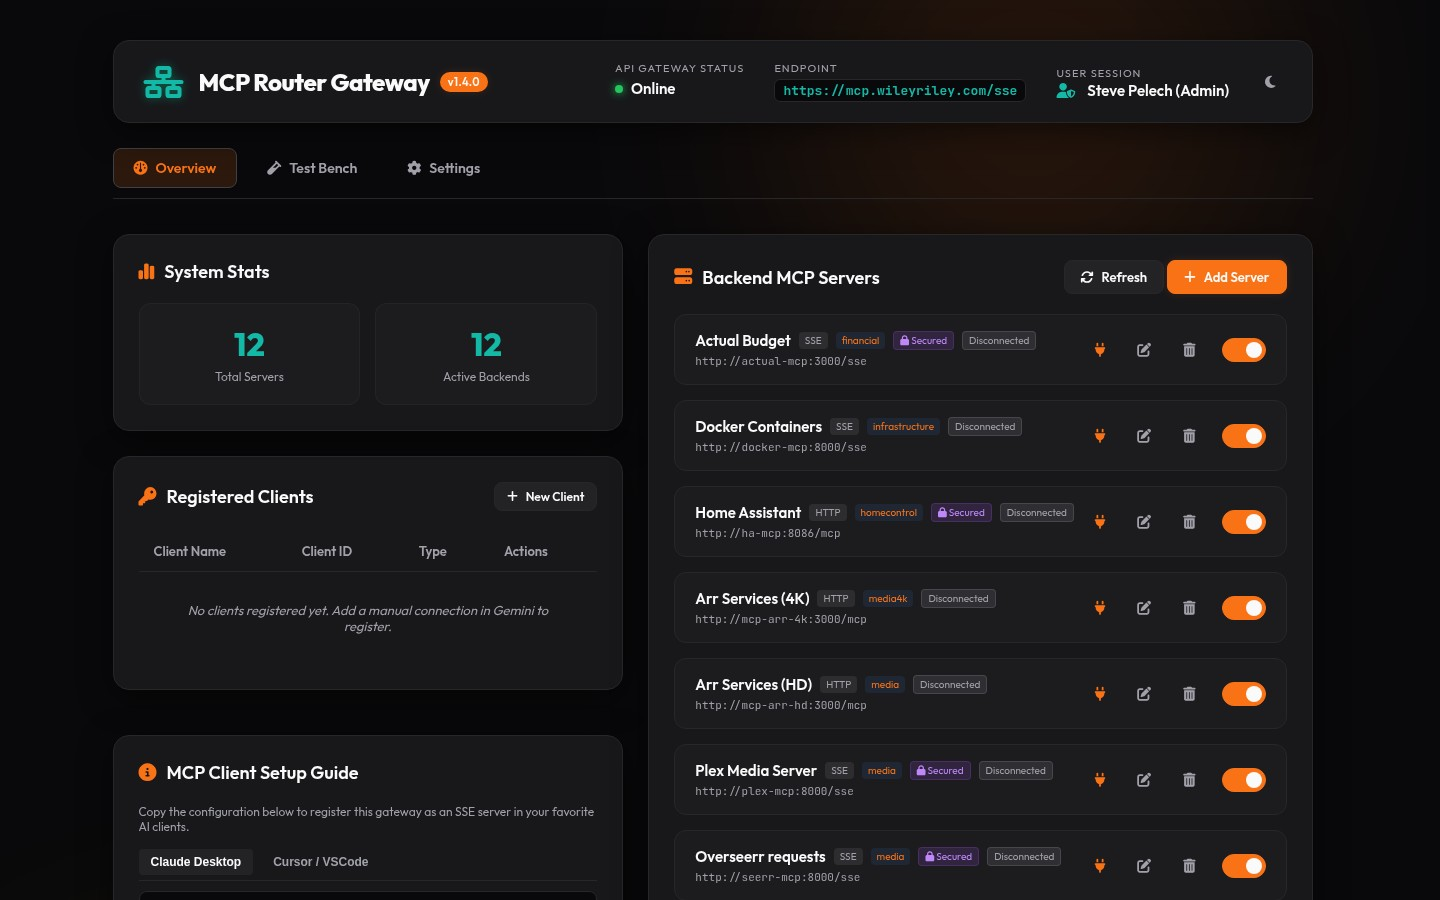
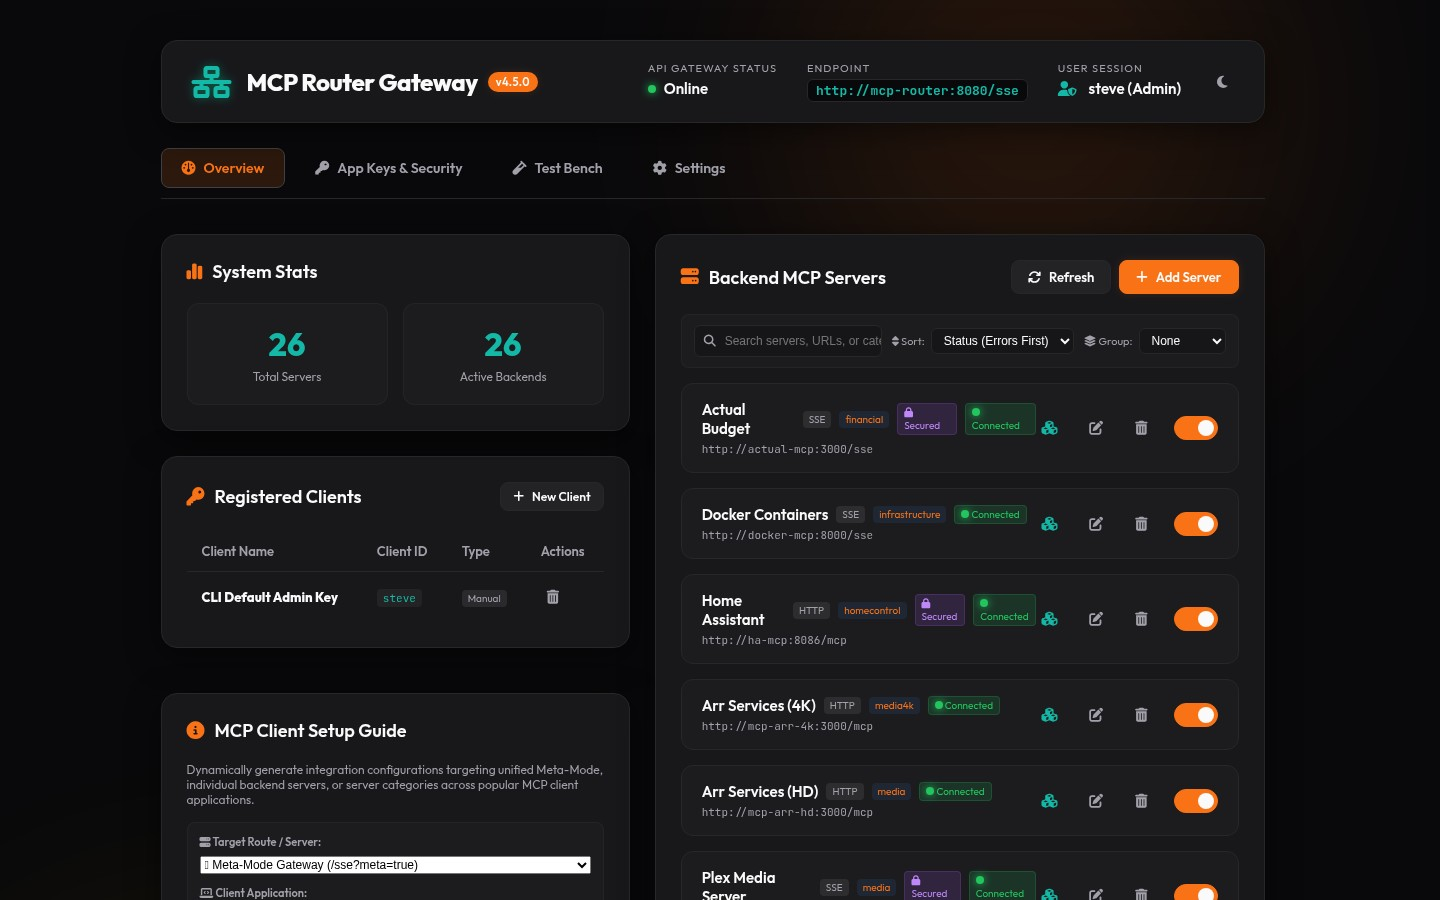
fix(ui): remove RegisteredClientsCard from Overview and stabilize tab layout navigation width

diff --git a/scripts/take_screenshots.js b/scripts/take_screenshots.js
@@ -1,6 +1,4 @@
 const puppeteer = require('puppeteer');
-const fs = require('fs');
-const path = require('path');
 
 (async () => {
     console.log("Starting Puppeteer browser...");
@@ -14,84 +12,61 @@ const path = require('path');
     
     // Set extra headers to fake the SSO session user
     await page.setExtraHTTPHeaders({
-        'Remote-User': process.env.SSO_USER || 'admin',
-        'Remote-Groups': process.env.SSO_GROUPS || 'admin',
-        'Remote-Name': process.env.SSO_NAME || 'Administrator'
+        'Remote-User': process.env.SSO_USER || 'steve',
+        'Remote-Groups': process.env.SSO_GROUPS || 'full_admin,house_member',
+        'Remote-Name': process.env.SSO_NAME || 'Steve Pelech'
     });
     
     const url = process.env.DASHBOARD_URL || 'http://localhost:8080/';
     console.log(`Navigating to ${url}...`);
     
-    // Navigate and wait for server list to render
+    // Navigate and wait for dashboard container to render
     await page.goto(url, { waitUntil: 'networkidle2' });
-    console.log("Page loaded. Waiting for servers to render...");
-    await page.waitForSelector('#servers-list .server-item', { timeout: 10000 });
+    console.log("Page loaded. Waiting for dashboard container...");
+    await page.waitForSelector('.dashboard-container', { timeout: 15000 });
     
-    // Wait a brief moment to ensure connectionStatus states render green
-    await page.evaluate(() => new Promise(resolve => setTimeout(resolve, 1500)));
+    // Wait a brief moment for dynamic data to load
+    await page.evaluate(() => new Promise(resolve => setTimeout(resolve, 2000)));
     
-    // Take dashboard screenshot
-    console.log("Taking dashboard screenshot...");
+    // Take dashboard overview screenshot
+    console.log("Taking dashboard overview screenshot...");
     await page.screenshot({ path: '/home/pptruser/app/screenshots/dashboard.jpg', quality: 90, type: 'jpeg' });
     
-    // Open Add Server modal
-    console.log("Opening Add Server modal...");
-    await page.evaluate(() => openAddModal());
-    await page.waitForSelector('#server-modal', { visible: true });
-    
-    // Fill in mock details for screenshot
-    await page.evaluate(() => {
-        document.getElementById('server-name').value = 'Home Assistant';
-        document.getElementById('server-url').value = 'http://ha-mcp:8086/mcp';
-        document.getElementById('server-type').value = 'http';
-        document.getElementById('server-category').value = 'homecontrol';
-        document.getElementById('server-key').value = '••••••••••••••••••••••••';
-    });
-    
-    // Wait a brief moment for layout
-    await page.evaluate(() => new Promise(resolve => setTimeout(resolve, 500)));
-    console.log("Taking Add Server modal screenshot...");
-    await page.screenshot({ path: '/home/pptruser/app/screenshots/add_server_modal.jpg', quality: 90, type: 'jpeg' });
-    
-    // Close modal
-    await page.evaluate(() => closeModal());
-    await page.evaluate(() => new Promise(resolve => setTimeout(resolve, 300)));
-    
-    // Switch to Settings tab
-    console.log("Switching to Settings tab...");
-    await page.click('button[data-view="view-settings"]');
-    await page.waitForSelector('#view-settings', { visible: true });
-    await page.evaluate(() => new Promise(resolve => setTimeout(resolve, 500)));
-    console.log("Taking Settings view screenshot...");
-    await page.screenshot({ path: '/home/pptruser/app/screenshots/settings_view.jpg', quality: 90, type: 'jpeg' });
-    
-    // Switch to Test Bench tab
-    console.log("Switching to Test Bench tab...");
-    await page.click('button[data-view="view-testbench"]');
-    await page.waitForSelector('#view-testbench', { visible: true });
-    
-    // Let's populate the dynamic form fields with docker restart tool
-    await page.evaluate(async () => {
-        // Select docker server
-        const serverSelect = document.getElementById('tester-server');
-        serverSelect.value = 'docker';
-        serverSelect.dispatchEvent(new Event('change'));
+    // Switch to Security tab (2nd button in nav.tabs-nav)
+    console.log("Switching to App Keys & Security tab...");
+    const tabButtons = await page.$$('nav.tabs-nav button');
+    if (tabButtons.length >= 2) {
+        await tabButtons[1].click();
+        await page.evaluate(() => new Promise(resolve => setTimeout(resolve, 1500)));
+        console.log("Taking Security View screenshot...");
+        await page.screenshot({ path: '/home/pptruser/app/screenshots/security_view.jpg', quality: 90, type: 'jpeg' });
         
-        // Wait for tools to load
-        await new Promise(resolve => setTimeout(resolve, 1500));
-        
-        // Select docker__restart_container tool
-        const toolSelect = document.getElementById('tester-tool');
-        const dockerOption = Array.from(toolSelect.options).find(o => o.value.includes('restart_container') || o.value.includes('restart'));
-        if (dockerOption) {
-            toolSelect.value = dockerOption.value;
-            toolSelect.dispatchEvent(new Event('change'));
+        // Open Create App Key modal
+        console.log("Opening Create App Key modal...");
+        const createKeyBtn = await page.$('.dcr-card button');
+        if (createKeyBtn) {
+            await createKeyBtn.click();
+            await page.waitForSelector('#add-appkey-modal', { visible: true });
+            await page.evaluate(() => new Promise(resolve => setTimeout(resolve, 500)));
+            console.log("Taking App Key Modal screenshot...");
+            await page.screenshot({ path: '/home/pptruser/app/screenshots/add_appkey_modal.jpg', quality: 90, type: 'jpeg' });
+            
+            // Close modal
+            const closeBtn = await page.$('#add-appkey-modal .btn-close');
+            if (closeBtn) await closeBtn.click();
+            await page.evaluate(() => new Promise(resolve => setTimeout(resolve, 500)));
         }
-    });
+    }
     
-    await page.evaluate(() => new Promise(resolve => setTimeout(resolve, 1500)));
-    console.log("Taking Test Bench view screenshot...");
-    await page.screenshot({ path: '/home/pptruser/app/screenshots/test_bench_view.jpg', quality: 90, type: 'jpeg' });
+    // Switch to Test Bench tab (3rd button)
+    console.log("Switching to Test Bench tab...");
+    const refreshedTabs = await page.$$('nav.tabs-nav button');
+    if (refreshedTabs.length >= 3) {
+        await refreshedTabs[2].click();
+        await page.evaluate(() => new Promise(resolve => setTimeout(resolve, 1500)));
+        console.log("Taking Test Bench screenshot...");
+        await page.screenshot({ path: '/home/pptruser/app/screenshots/test_bench_view.jpg', quality: 90, type: 'jpeg' });
+    }
     
     console.log("Finished taking all screenshots!");
     await browser.close();

diff --git a/frontend/src/components/DashboardView.tsx b/frontend/src/components/DashboardView.tsx
@@ -1,11 +1,9 @@
 import React, { useEffect } from 'react';
 import { useServerStore, McpServer } from '../stores/useServerStore';
-import { useClientStore } from '../stores/useClientStore';
 import { useSettingsStore } from '../stores/useSettingsStore';
 
 import { StatsCard } from './dashboard/StatsCard';
 import { ApprovalsCard } from './dashboard/ApprovalsCard';
-import { RegisteredClientsCard } from './dashboard/RegisteredClientsCard';
 import { ClientSetupGuide } from './dashboard/ClientSetupGuide';
 import { ServerControlsToolbar } from './dashboard/ServerControlsToolbar';
 import { ServerCard } from './dashboard/ServerCard';
@@ -24,12 +22,10 @@ export const DashboardView: React.FC = () => {
     toggleGroupCollapse,
   } = useServerStore();
 
-  const { fetchClients } = useClientStore();
   const { fetchApprovals } = useSettingsStore();
 
   useEffect(() => {
     fetchServers();
-    fetchClients();
     fetchApprovals();
 
     const serverPoll = setInterval(() => fetchServers(), 10000);
@@ -150,7 +146,6 @@ export const DashboardView: React.FC = () => {
         <section className="left-panel">
           <StatsCard />
           <ApprovalsCard />
-          <RegisteredClientsCard />
           <ClientSetupGuide />
         </section>
 

diff --git a/frontend/src/styles/layout.css b/frontend/src/styles/layout.css
@@ -1,4 +1,5 @@
 html {
+    overflow-y: scroll;
     scrollbar-gutter: stable;
 }
 
@@ -148,15 +149,21 @@ body {
 /* Layout views */
 .view-panel {
     display: none;
+    width: 100%;
+    box-sizing: border-box;
 }
 .view-panel.active {
     display: block;
+    width: 100%;
+    box-sizing: border-box;
 }
 
 .dashboard-main {
     display: grid;
     grid-template-columns: 1fr 1.3fr;
     gap: 25px;
+    width: 100%;
+    box-sizing: border-box;
 }
 
 @media (max-width: 900px) {
@@ -178,6 +185,8 @@ body {
     border-bottom: 1px solid var(--border-color);
     padding-bottom: 10px;
     margin-bottom: 10px;
+    width: 100%;
+    box-sizing: border-box;
 }
 
 .tab-btn {

diff --git a/frontend/src/stores/useUserStore.ts b/frontend/src/stores/useUserStore.ts
@@ -19,7 +19,7 @@ interface UserStore {
 
 export const useUserStore = create<UserStore>((set) => ({
   user: null,
-  version: '4.5.0', // fallback default
+  version: '4.5.2', // fallback default
   isLoadingUser: false,
   loadUser: async () => {
     set({ isLoadingUser: true });

diff --git a/README.md b/README.md
@@ -77,11 +77,11 @@ For complete release history and version logs, see [**CHANGELOG.md**](CHANGELOG.
 
 | Version | Release Date | Summary of Key Changes |
 | :--- | :--- | :--- |
+| **`v4.5.2`** | 2026-08-09 | fix(ui): remove RegisteredClientsCard from Overview and stabilize tab layout navigation width |
+| **`v4.5.1`** | 2026-08-09 | fix(ui): remove RegisteredClientsCard from Overview and stabilize tab layout navigation width |
 | **`v4.5.0`** | 2026-08-09 | feat(ui): add dedicated App Keys & Security tab with LiteLLM-style key management |
 | **`v4.4.2`** | 2026-08-09 | docs(plan): add implementation plan for dedicated App Keys & Security tab |
 | **`v4.4.1`** | 2026-08-09 | docs(spec): add design spec for dedicated App Keys & Security management tab |
-| **`v4.4.0`** | 2026-08-08 | feat(auth): add X-App-Key header extraction and default admin AppKey seeder |
-| **`v4.3.0`** | 2026-08-08 | feat(ui): implement interactive multi-target client setup guide generator |
 
 ---
 

diff --git a/CHANGELOG.md b/CHANGELOG.md
@@ -8,6 +8,8 @@ For summary details and quick references, see [README.md](README.md).
 
 | Version | Release Date | Summary of Key Changes |
 | :--- | :--- | :--- |
+| **`v4.5.2`** | 2026-08-09 | fix(ui): remove RegisteredClientsCard from Overview and stabilize tab layout navigation width |
+| **`v4.5.1`** | 2026-08-09 | fix(ui): remove RegisteredClientsCard from Overview and stabilize tab layout navigation width |
 | **`v4.5.0`** | 2026-08-09 | feat(ui): add dedicated App Keys & Security tab with LiteLLM-style key management |
 | **`v4.4.2`** | 2026-08-09 | docs(plan): add implementation plan for dedicated App Keys & Security tab |
 | **`v4.4.1`** | 2026-08-09 | docs(spec): add design spec for dedicated App Keys & Security management tab |
